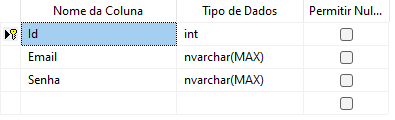
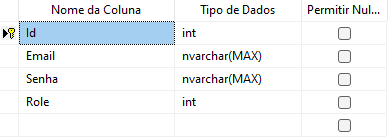
Implementado o conceito de roles para os usuários
Implementado o conceito de roles para os usuários

diff --git a/README.md b/README.md
@@ -3,6 +3,7 @@
 O projeto "JomedAPI" é uma aplicação que permite a gestão completa de médicos e pacientes, oferecendo funcionalidades de criação, consulta, atualização e exclusão (CRUD). A API facilita o agendamento e cancelamento de consultas, utilizando o ID do médico e o ID do paciente como chaves estrangeiras, além de um datetime para especificar o horário da consulta.
 A API também permite a desativação de médicos e pacientes. Desativar um médico ou paciente não os exclui permanentemente, apenas os marca como inativos, possibilitando sua reativação futura.
 Para realizar o login, é necessário autenticar-se utilizando JSON Web Tokens (JWT). O sistema assegura que apenas usuários autenticados possam acessar e manipular os dados, uma vez que o token JWT deve ser incluído nas requisições para autenticação.
+Para as requisições do método DELETE, o usuário autenticado precisa ter a Role de Administrador.
 Para cadastrar médicos e pacientes, é necessário fornecer um endereço completo, que inclui dados como rua, número e bairro, entre outros.
 
 | :placard: Vitrine.Dev | Guilherme Henrique            |
@@ -21,7 +22,8 @@ Para cadastrar médicos e pacientes, é necessário fornecer um endereço comple
 > - **Login com JWT: As operações POST, PUT e DELETE requerem autenticação via JWT, obtido através do endpoint /Login.**
 
 As requisições com os verbos POST e PUT precisam ser autenticadas com o Jwt obtido através do endpoint de `/Login`, cadastrado através do `POST /Usuarios` (livre de autenticação).
-As requisições para o verbo DELETE precisa ser autenticada com a Role do usuário sendo 'Administrador'. O usuário ao ser criado é cadastrado com a Role de 'Usuario'.
+<br>
+As requisições para o verbo DELETE precisa ser autenticada com a Role do usuário sendo `Administrador`. O usuário ao ser criado é cadastrado com a Role de `Usuario`.
 
 ## Escalamento do projeto
 
@@ -29,7 +31,7 @@ As requisições para o verbo DELETE precisa ser autenticada com a Role do usuá
 - Implementado 52 testes para garantir a qualidade do código. ✅
 - Implementado segurança de login, com o JWT. ✅
 - Implementado a ativação dos médicos e pacientes. ✅
-- Implementado a autenticação do usuário com funções ('Usuario' e 'Administrador') onde somente o Administrador pode fazer requisições DELETE. ✅
+- Implementado a autenticação do usuário com funções (`Usuario` e `Administrador`) onde somente o Administrador pode fazer requisições DELETE. ✅
 - Criar as telas com windows forms para realizar as operações.
 - Implementar um app com Flutter para o consumo da API.
 
@@ -74,7 +76,7 @@ Dessa forma o banco de dados estará atualizado para rodar a aplicação.
 
 - `DELETE /Usuarios/{id}`: Essa rota tem a finalidade de deletar o cadastro do usuário, passando o `id`.
   Caso o usuário seja encontrado, é deletado e retornado um [HTTP 204][http204], informando que a requisição foi bem sucedida mas não retornou nada. Mas se não for encontrado, é retornado um [HTTP 404][http404] e a mensagem `Usuário não encontrado`.
-  Para fazer essa requisição, o usuário logado precisa ter a Role 'Administrador'.
+  <br> Para fazer essa requisição, o usuário logado precisa ter a Role `Administrador`.
 
 <br>
 
@@ -235,11 +237,11 @@ Dessa forma o banco de dados estará atualizado para rodar a aplicação.
 
 - `DELETE /Medicos/{id}`: Essa rota tem a finalidade de deletar o cadastro do médico, passando o `id` do médico.
   Caso o médico seja encontrado, é deletado e retornado um [HTTP 204][http204], informando que a requisição foi bem sucedida mas não retornou nada. Mas se não for encontrado, é retornado um [HTTP 404][http404] e a mensagem `Médico não encontrado`.
-  Para fazer essa requisição, o usuário logado precisa ter a Role 'Administrador'.
+  <br> Para fazer essa requisição, o usuário logado precisa ter a Role `Administrador`.
 
 - `DELETE /Medicos/{id}/inativar`: Essa rota tem a finalidade de inativar o cadastro do médico, passando o `id` do médico.
   Caso o médico seja encontrado, é inativado e retornado um [HTTP 204][http204], informando que a requisição foi bem sucedida mas não retornou nada. Mas se não for encontrado, é retornado um [HTTP 404][http404] e a mensagem `Médico não encontrado`.
-  Para fazer essa requisição, o usuário logado precisa ter a Role 'Administrador'.
+  <br> Para fazer essa requisição, o usuário logado precisa ter a Role `Administrador`.
 
 <br>
 
@@ -392,11 +394,11 @@ Dessa forma o banco de dados estará atualizado para rodar a aplicação.
 
 - `DELETE /Pacientes/{id}`: Essa rota tem a finalidade de deletar o cadastro do paciente com o `id` do informado.
   Caso o paciente seja encontrado, é deletado e retornado um [HTTP 204][http204], informando que a requisição foi bem sucedida mas não retornou nada. Mas se não for encontrado, é retornado um [HTTP 404][http404] e a mensagem `Paciente não encontrado`.
-  Para fazer essa requisição, o usuário logado precisa ter a Role 'Administrador'.
+  <br> Para fazer essa requisição, o usuário logado precisa ter a Role `Administrador`.
 
 - `DELETE /Pacientes/{id}/inativar`: Essa rota tem a finalidade de inativar o cadastro do paciente com o `id` do informado.
   Caso o paciente seja encontrado, é inativado e retornado um [HTTP 204][http204], informando que a requisição foi bem sucedida mas não retornou nada. Mas se não for encontrado, é retornado um [HTTP 404][http404] e a mensagem `Paciente não encontrado`.
-  Para fazer essa requisição, o usuário logado precisa ter a Role 'Administrador'.
+  <br> Para fazer essa requisição, o usuário logado precisa ter a Role `Administrador`.
 
 <br>
 
@@ -466,7 +468,7 @@ Dessa forma o banco de dados estará atualizado para rodar a aplicação.
 - `DELETE /Consultas/{id}`: Essa rota tem a finalidade de cancelar uma consulta cadastrada com o `id` informado. Deve ser passado no corpo da requisição um JSON com o campo de `motivoCancelamento`, o qual também é um enum e deve
   ser `PACIENTE_CANCELOU`, `MEDICO_CANCELOU`, `MUDANCA_HORARIO` ou `OUTROS`.
   A coluna `Cancelado` da consulta passa a ser `true` e o motivo passa a ser o informado no JSON de cancelamento.
-  Para fazer essa requisição, o usuário logado precisa ter a Role 'Administrador'.
+  <br> Para fazer essa requisição, o usuário logado precisa ter a Role `Administrador`.
 
   ```json
   {
